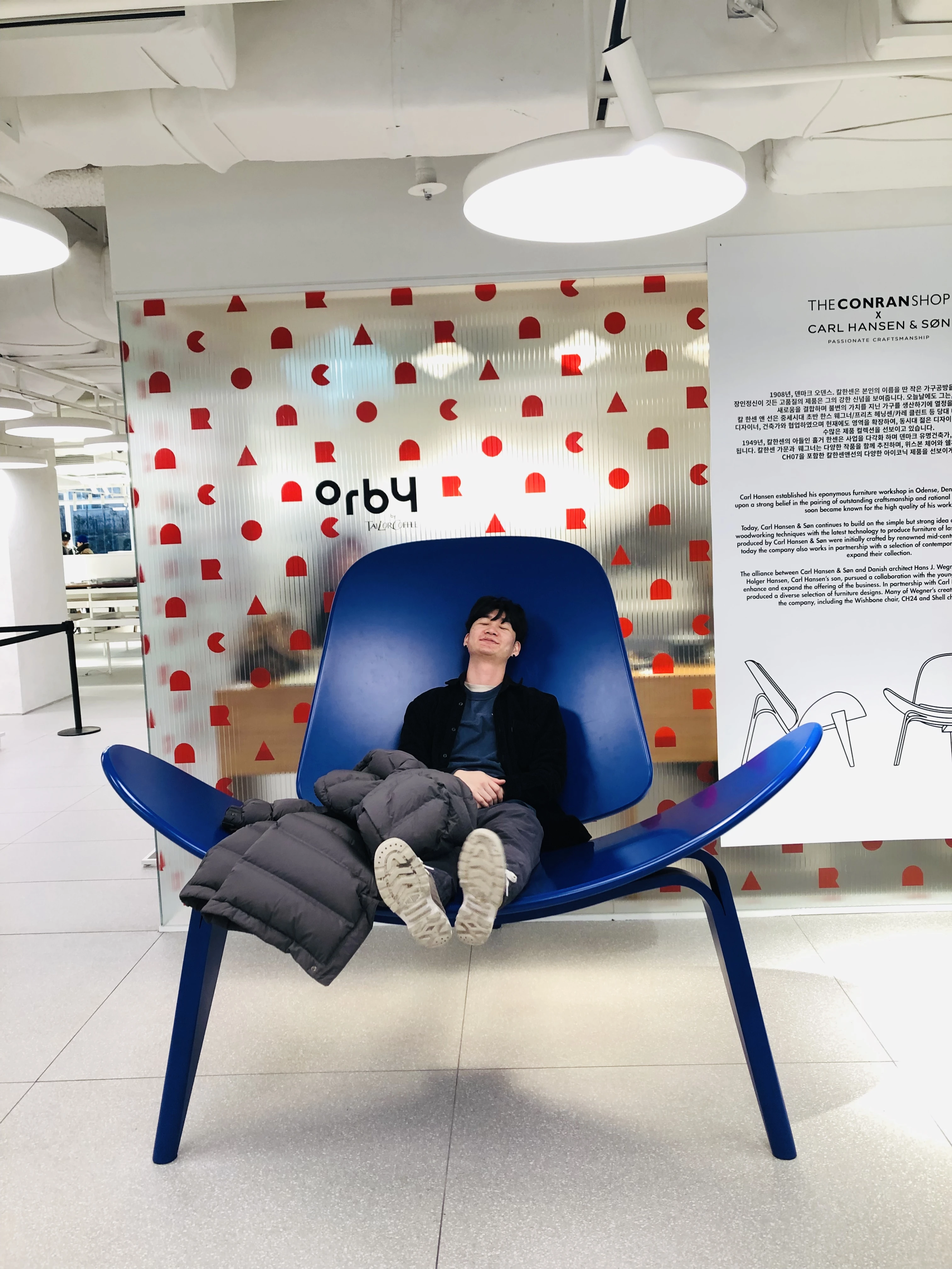
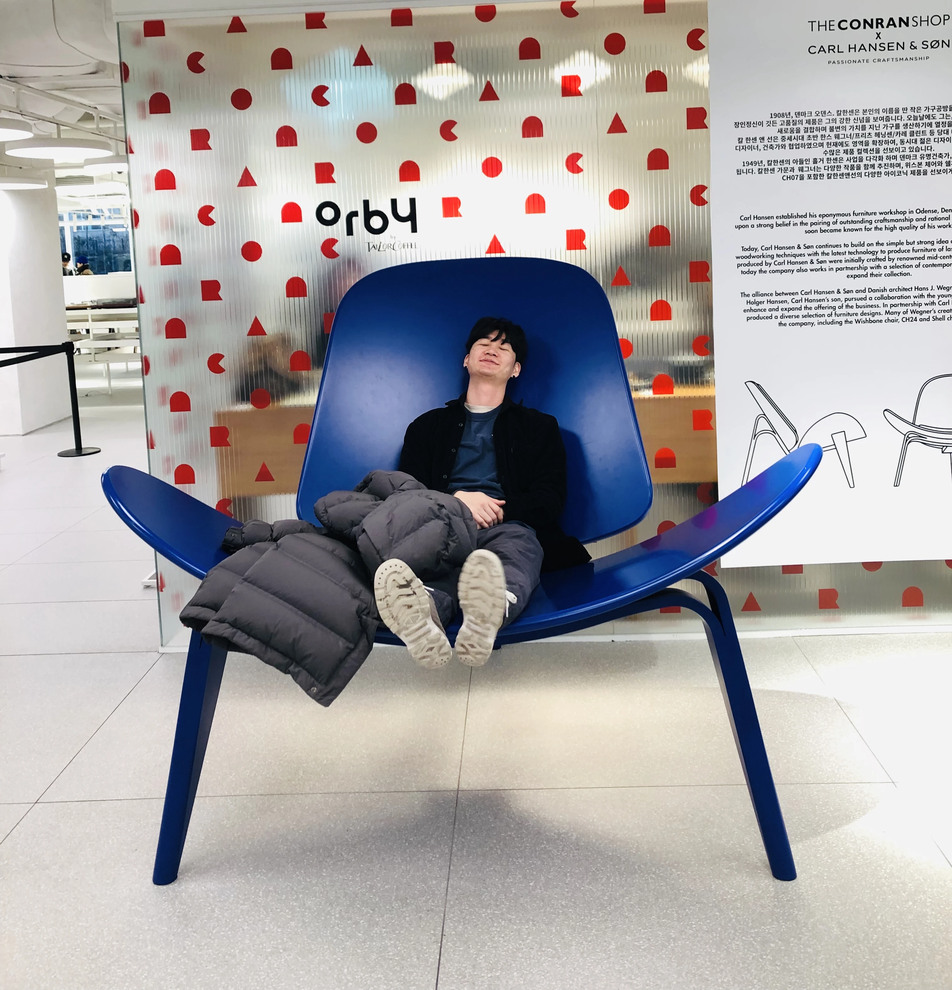
543
543

diff --git a/index.html b/index.html
@@ -823,7 +823,7 @@ html{scrollbar-width:thin;scrollbar-color:rgba(51,170,255,.18) transparent;}
   overflow:hidden;
   filter:contrast(1.05) brightness(.9);
 }
-.ap-photo img{ width:130%;height:130%;object-fit:cover;object-position:center 15%; margin-left:-15%; }
+.ap-photo img{ width:100%;height:100%;object-fit:cover;object-position:center top; }
 .ap-info{ padding-top:.5rem; }
 .ap-name{
   font-family:var(--D);font-size:clamp(3rem,7vw,5.5rem);
